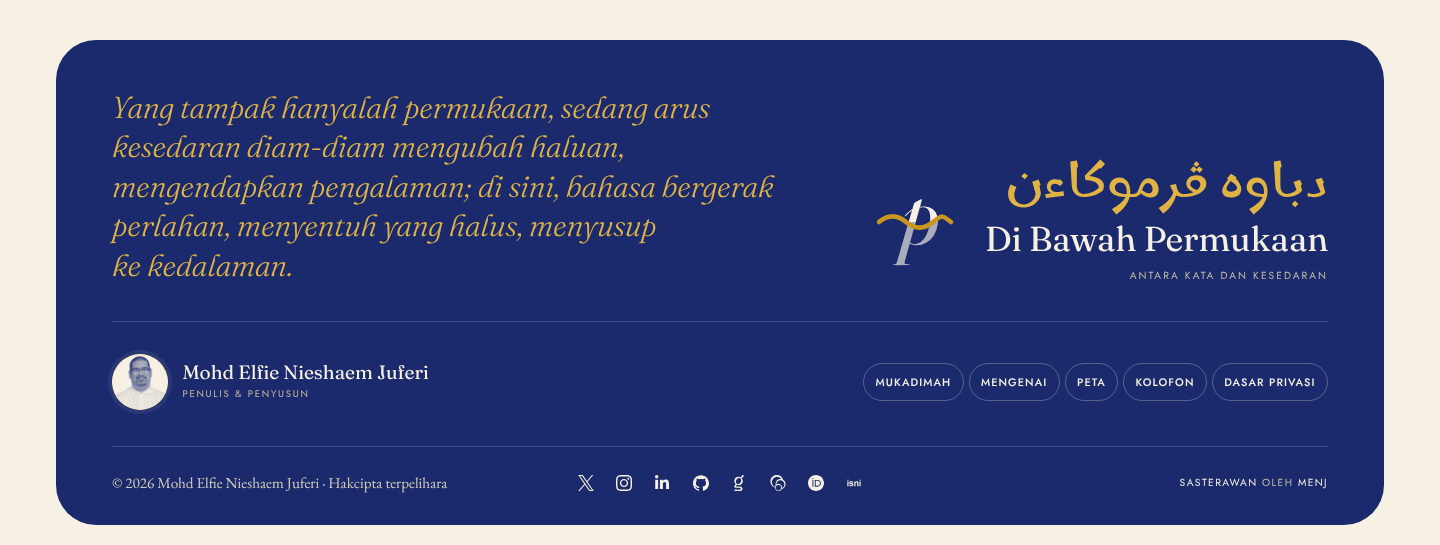
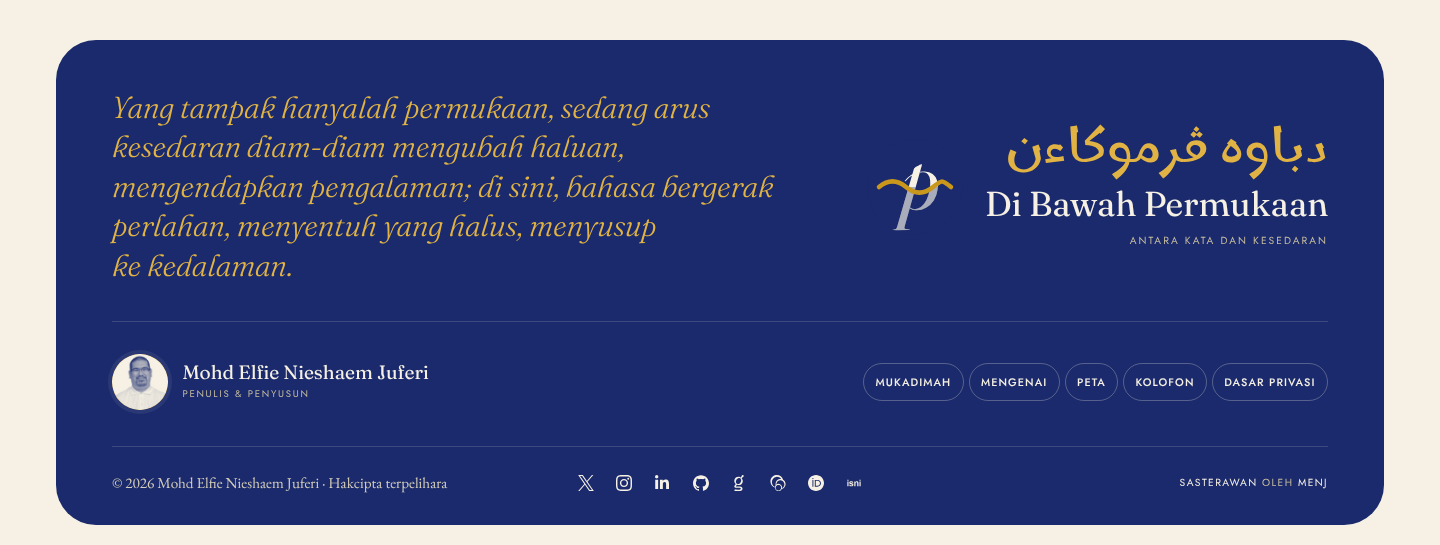
Footer: centre identity block against the sign-off
Claude-Session: https://claude.ai/code/session_01Er8Hpy67qX5wHknT6MnoT1

Changed region(s): [[0.6875, 0.2183, 0.9375, 0.4679], [0.5938, 0.3119, 0.6562, 0.4679], [0.7812, 0.4991, 0.9062, 0.5303]]

diff --git a/assets/css/frontend.css b/assets/css/frontend.css
@@ -912,7 +912,7 @@ body.bwp-archive-masonry .bwp-archive-list__item { width: 49%; margin-bottom: .7
 }
 
 /* 1 · sign-off | identity */
-.bwp-site-footer__top { display: grid; grid-template-columns: minmax(0, 7fr) minmax(0, 5fr); gap: 2rem 3rem; align-items: end; }
+.bwp-site-footer__top { display: grid; grid-template-columns: minmax(0, 7fr) minmax(0, 5fr); gap: 2rem 3rem; align-items: center; }
 .bwp-site-footer__sign { display: flex; flex-direction: column; gap: .7rem; max-width: 38em; }
 .bwp-site-footer__identity { display: flex; align-items: center; justify-content: flex-end; gap: 1.4rem; }
 .bwp-site-footer__identity .bwp-site-footer__mark { width: 96px; height: 96px; flex: none; }
